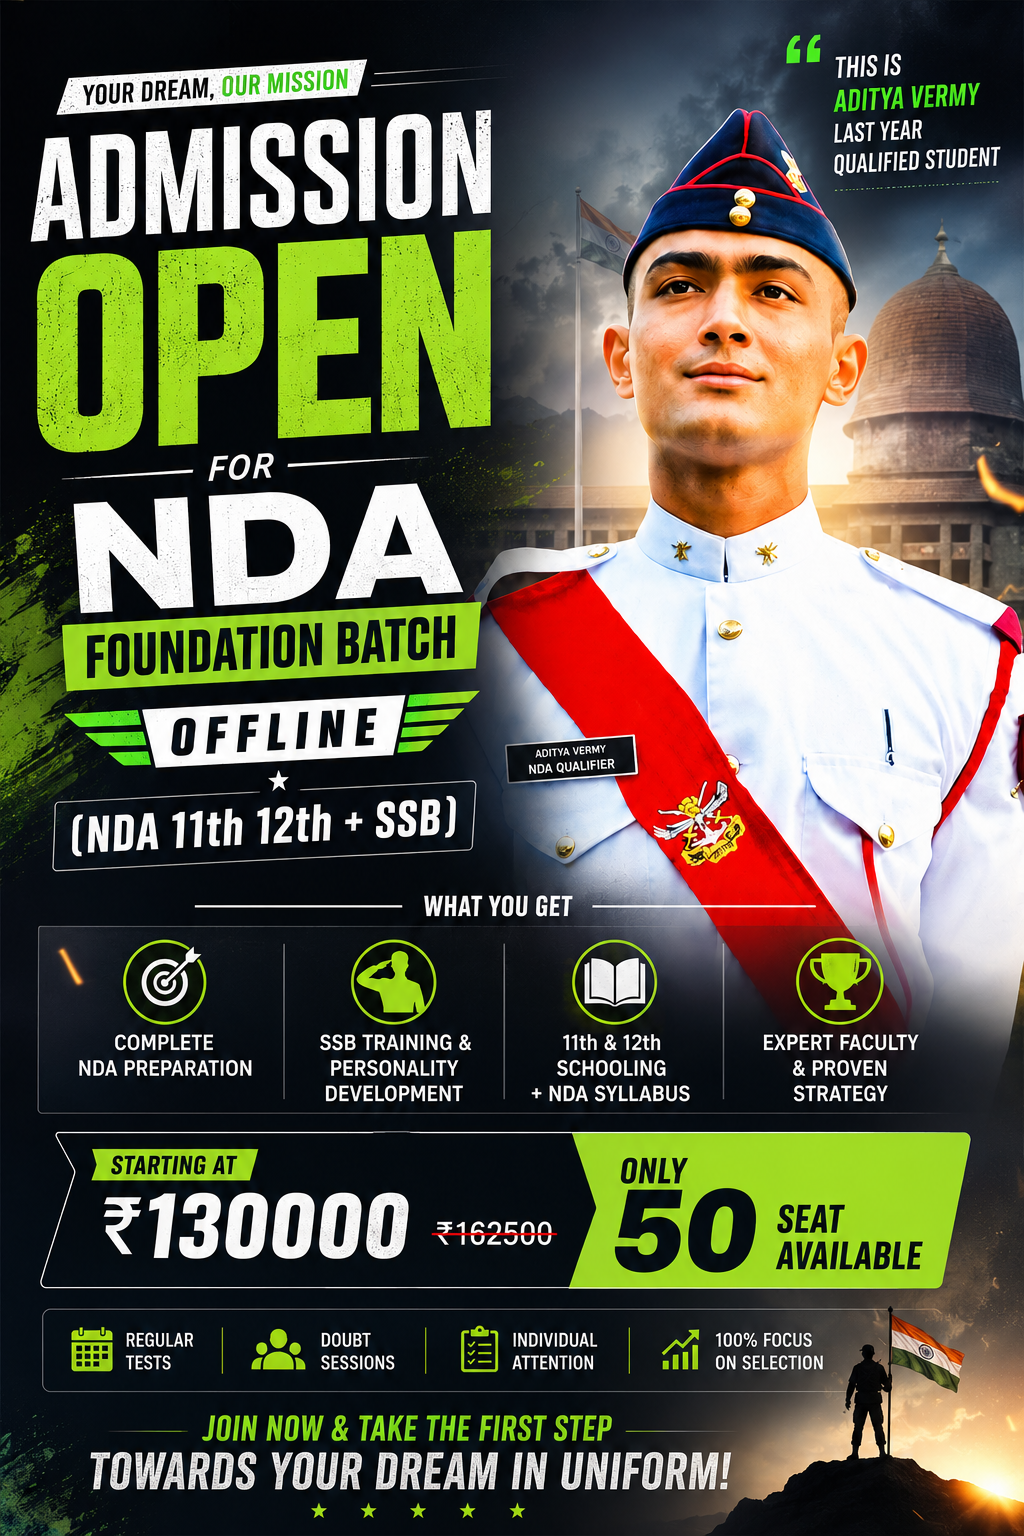
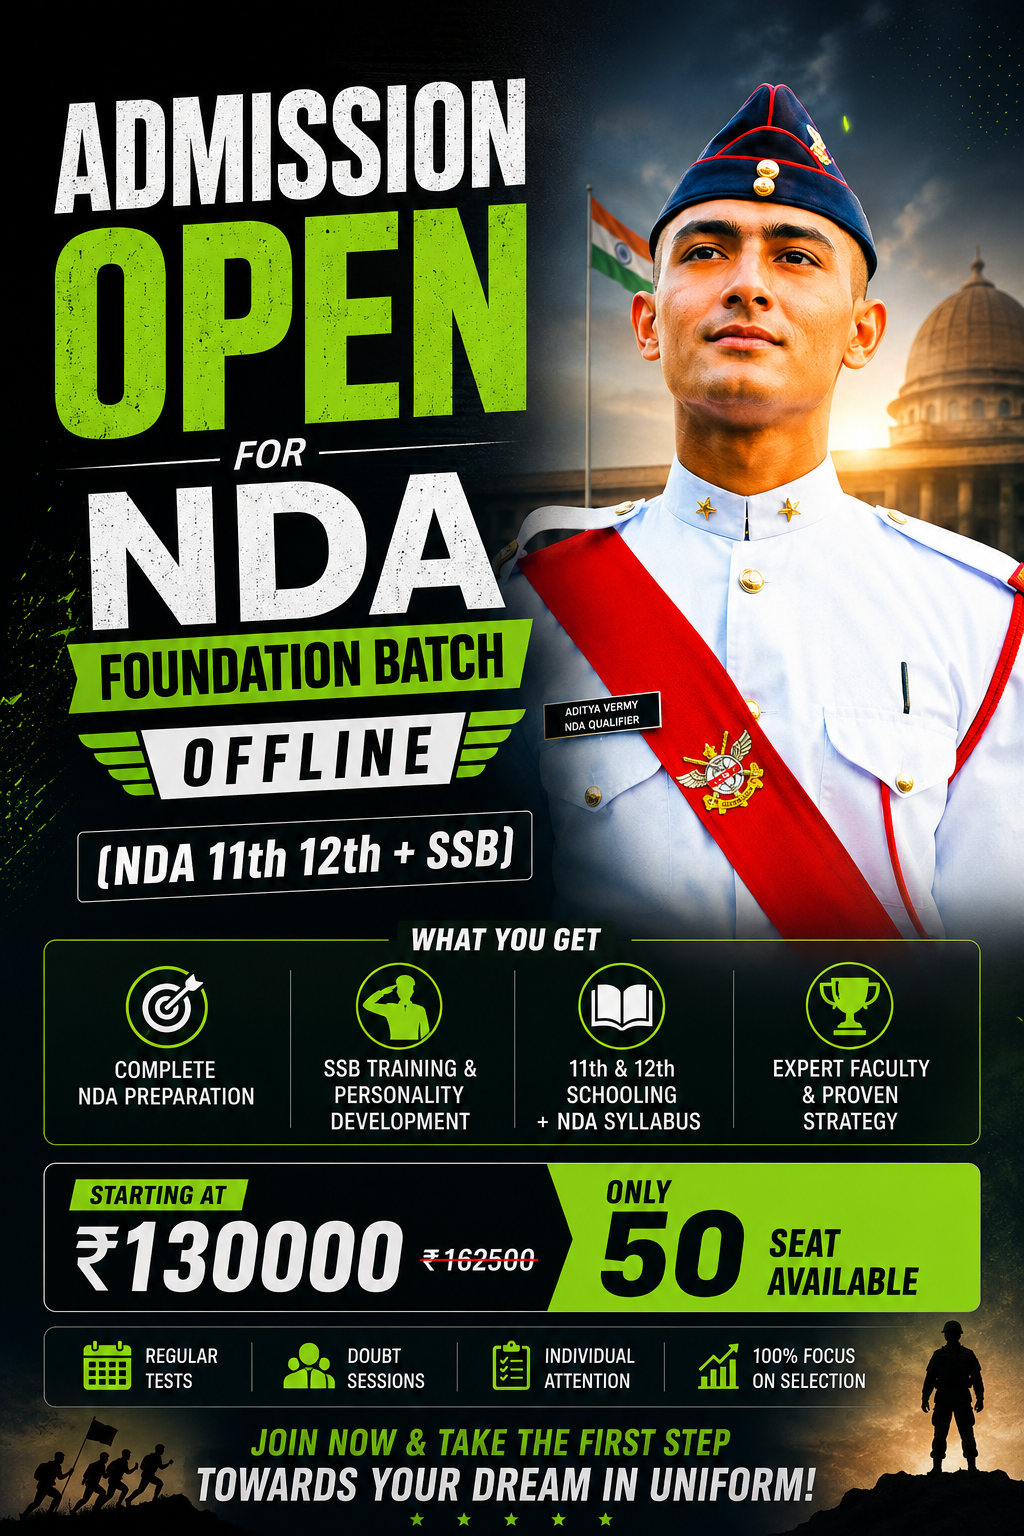
change

diff --git a/frontend/src/components/userComponent/courseSection.jsx b/frontend/src/components/userComponent/courseSection.jsx
@@ -4,7 +4,7 @@ import {
   useGetAllPurchasedCourseHook,
 } from "../../hooks/course.hook.js";
 import { useNavigate } from "react-router-dom";
-import { Clock, Users, Star, ArrowRight, Zap } from "lucide-react";
+import { Clock, Users, Star, ArrowRight, Zap, MessageSquare } from "lucide-react";
 
 const courseSection = () => {
   const { data, error, isLoading } = useGetCourseHook();
@@ -57,7 +57,7 @@ const courseSection = () => {
                 <div className="absolute top-3 right-3 bg-white/90 backdrop-blur-sm px-3 py-1 rounded-full shadow-lg">
                   <Star className="w-4 h-4 text-yellow-500 fill-current inline mr-1" />
                   <span className="text-sm font-bold text-slate-800">
-                      {item.rating || (4.5 + Math.random() * 0.5).toFixed(1)}
+                    {item.rating || (4.5 + Math.random() * 0.5).toFixed(1)}
                   </span>
                 </div>
               </div>
@@ -81,6 +81,18 @@ const courseSection = () => {
                   <div className="flex items-center gap-2 text-sm text-slate-600">
                     <Clock className="w-4 h-4" />
                     <span>{item.duration || "12 hours"}</span>
+                  </div>
+
+                  {/* Highlights Badges */}
+                  <div className="flex flex-wrap gap-2 mt-1">
+                    <div className="inline-flex items-center gap-1.5 px-2.5 py-1 bg-blue-50/80 border border-blue-100 rounded-lg text-xs font-semibold text-blue-800 shadow-sm w-fit">
+                      <Zap className="w-3.5 h-3.5 text-blue-600 fill-blue-100 animate-pulse" />
+                      <span>20 Online & 20 Offline Mocks + Daily Live Test</span>
+                    </div>
+                    <div className="inline-flex items-center gap-1.5 px-2.5 py-1 bg-purple-50/80 border border-purple-100 rounded-lg text-xs font-semibold text-purple-800 shadow-sm w-fit">
+                      <MessageSquare className="w-3.5 h-3.5 text-purple-600 fill-purple-100" />
+                      <span>30 Min Spoken English Session</span>
+                    </div>
                   </div>
                 </div>
 
